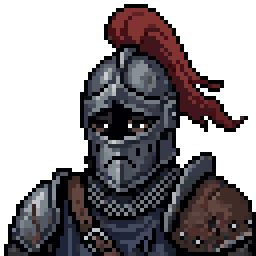
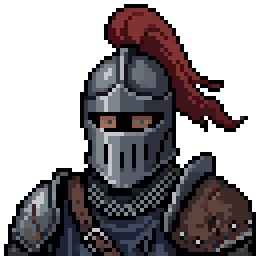
Оружие, люстра, решётка и карта картинками; портрет Найта; имя Найта в лавке
- Оружие в руках — пиксель-арт PixelLab (меч, короткий меч, двуручник; остальное — по мере генерации),
  рисуется от кисти под углом позы, хват ищется по картинке; без картинки — как раньше, кодом
- Люстра картинкой, пламя — живое на найденных фитилях; решётка и дверь камеры картинками
- Карта на пергаменте
- Портрет Найта: прямая прорезь, видны глаза, забрало не похоже на грустное лицо (замечание владельца);
  усталый — те же глаза с опущенными веками
- Лавка: реплики Найта в «Поговорить» шли под именем Лики — теперь над ними «Найт»

Claude-Session: https://claude.ai/code/session_01NZaKJV7VXAQHZfGwN3MbH5

diff --git a/src/background.js b/src/background.js
@@ -12,13 +12,13 @@ export const DOOR_W = 22, DOOR_H = 36;
 const DECOR_IMG = {
   window: [2, 'top', 22, -3], banner: [2, 'top', 10, -3], portrait: [3, 'top', 36, -2], tapestry: [1, 'top', 14, -2],
   chains: [1, 'top', 40, 0], shield: [1, 'center', 44, 0], armor: [2, 'floor'], rack: [2, 'floor'], bunk: [2, 'floor'], bookshelf: [2, 'floor'], shelf: [2, 'top', 40, 0], fireplace: [1, 'floor'],
-  pit: [1, 'hole'], rubble: [1, 'stairs'], sign: [1, 'top', 12, 0],
+  pit: [1, 'hole'], rubble: [1, 'stairs'], sign: [1, 'top', 12, 0], chandelier: [1, 'hang', 30],
 };
 // предметы на полу картинкой: тип → вариантов (вариант — по месту); сундук — закрытый / открытый
 const PROP_IMG = { barrel: 1, crate: 2, sack: 1, chest: 1, bones: 2,
   sofa: 1, table: 1, chair: 1, armchair: 1, pew: 1, bench: 1, desk: 1, stool: 1, guardtable: 1, stall: 1, rug: 1,
   bedroll: 1, pot: 1, letter: 1, candles: 1, lute: 1, logbook: 1, bouquet: 1, loot: 1 };
-export const OBJECTS = ['door_wood', 'door_iron', 'door_bars', 'door_hole', 'prop_chest_open', 'bonepile', 'stairs', 'balustrade', 'stainedglass', 'prop_altar', 'lika_sit', 'lika_sit_1', 'lika_wave', 'prop_campfire', 'prop_cup', 'slime', 'slime_squash', 'slime_stretch',
+export const OBJECTS = ['door_wood', 'door_iron', 'door_bars', 'door_hole', 'prop_chest_open', 'bonepile', 'stairs', 'balustrade', 'stainedglass', 'prop_altar', 'lika_sit', 'lika_sit_1', 'lika_wave', 'prop_campfire', 'prop_cup', 'slime', 'slime_squash', 'slime_stretch', 'decor_chandelier', 'gate_bars', 'gate_door',
   ...Object.entries(PROP_IMG).flatMap(([t, n]) => Array.from({ length: n }, (_, i) => 'prop_' + t + (i ? '_' + i : ''))),
   ...Object.entries(DECOR_IMG).flatMap(([t, [n]]) => Array.from({ length: n }, (_, i) => 'decor_' + t + (i ? '_' + i : '')))];
 const obj = {};
@@ -26,6 +26,17 @@ for (const n of OBJECTS) { if (typeof Image === 'undefined') break; const im = n
 export const objectsReady = () => OBJECTS.every(n => obj[n]?.complete);   // загрузились или не нашлись — дальше не ждать
 const objImg = n => (obj[n]?.complete && obj[n].naturalWidth ? obj[n] : null);
 if (obj.stainedglass) obj.stainedglass.onload = () => { decorImages.stainedglass = obj.stainedglass; };
+// люстра (v0.68): фитили — верхушки свечей на картинке (самые высокие столбцы); живое пламя ставится на них (decor.js)
+if (obj.decor_chandelier) obj.decor_chandelier.onload = () => {
+  const im = obj.decor_chandelier, w = im.width, h = im.height;
+  const c = document.createElement('canvas'); c.width = w; c.height = h;
+  const x = c.getContext('2d'); x.drawImage(im, 0, 0);
+  const a = x.getImageData(0, 0, w, h).data;
+  const top = Array.from({ length: w }, (_, i) => { for (let y = 0; y < h; y++) if (a[(y * w + i) * 4 + 3] > 100) return y; return h; });
+  const m = Math.min(...top), wicks = [];
+  for (let i = 0; i < w; i++) if (top[i] <= m && (i === 0 || top[i - 1] > m)) wicks.push((i - w / 2) / 2);   // мир: от центра
+  decorImages.chandelier = { wicks, h: h / 2 };
+};
 // убранство картинкой (если есть); false — рисовать кодом
 function decorImage(g, d, floorTop, room) {
   const spec = DECOR_IMG[d.type];
@@ -37,6 +48,13 @@ function decorImage(g, d, floorTop, room) {
   const im = objImg('decor_' + d.type + (i ? '_' + i : ''));
   if (!im) return false;
   const h = im.height / 2;
+  if (anchor === 'hang') {
+    // люстра: цепь от потолка кодом, верх картинки — фитили на (d.y - 7), как у прежней люстры кодом
+    const cx = Math.round(d.x), top = (d.y ?? top0) - 7;
+    for (let yy = 0; yy < top + 4; yy += 3) { rect(g, cx, yy, 1, 2, '#4a4654'); rect(g, cx, yy + 2, 1, 1, '#1a1720'); }
+    drawObj(g, im, cx, top + h);
+    return true;
+  }
   if (anchor === 'stairs') {
     // завал наверху лестницы (картинкой): закрывает её проём
     const st = objImg('stairs');
@@ -459,6 +477,12 @@ export function buildImageRoom(room, img, height, floorTop) {
 // Решётка камеры в торце: за ней темнота, прутья во всю высоту стены.
 function drawGateWall(g, x0, floorTop) {
   rect(g, x0, 0, 26, floorTop, '#0f0c18');
+  const im = objImg('gate_bars');
+  if (im) {
+    // решётка картинкой (v0.68): прутья от пола до потолка, за ними темнота коридора
+    for (let b = floorTop; b > 0; b -= im.height / 2) drawObj(g, im, x0 + 13, b);
+    return;
+  }
   rect(g, x0 + (x0 ? 0 : 23), 0, 3, floorTop, PAL.wallDark);
   for (let x = x0 + 3; x < x0 + 26; x += 4) rect(g, x, 0, 1, floorTop, '#5b6b86');
   for (const yy of [18, 60, 100]) rect(g, x0, yy, 26, 2, '#45424f');
@@ -466,6 +490,19 @@ function drawGateWall(g, x0, floorTop) {
 
 // Открытая дверь решётки — распахнута к зрителю, рисуется поверх бойцов.
 export function drawGatePanel(g, x, floorTop, H, dir) {
+  const im = objImg('gate_door');
+  if (im) {
+    // распахнутая дверь решётки картинкой: петли у стены (x), створка к зрителю
+    const k = 1.3, w = im.width / 2 * k, h = im.height / 2 * k, b = Math.min(H - 3, floorTop + 36);   // выше рыцаря
+    g.save();
+    g.imageSmoothingEnabled = false;
+    g.translate(Math.round(x), 0);
+    if (dir < 0) g.scale(-1, 1);
+    g.globalAlpha = 0.95;
+    g.drawImage(im, 0, b - h, w, h);
+    g.restore();
+    return;
+  }
   const top = floorTop + 4, bottom = H - 3;
   g.globalAlpha = 0.9;
   for (let i = 0; i < 6; i++) {

diff --git a/src/sprites.js b/src/sprites.js
@@ -98,9 +98,101 @@ function nearestPose(s, p) {
   return best;
 }
 
-// Оружие кодом (в пикселях экрана): kind — sword | rapier | axe | spear | halberd | bow | crossbow.
-// Возвращает кончик (для шлейфа удара).
+// Оружие картинкой (v0.68): assets/objects/wpn_<имя>.png лежит горизонтально, рукоять слева, острие справа.
+// Хват ищется по картинке: у клинков — чуть позади гарды (самый высокий столбец в левой части), у древкового — доля длины.
+// reach — во сколько раз вынос от кисти больше длины weaponLen (у копья наконечник дальше); flipY — лезвие вниз.
+// Короткий клинок и двуручник — свои картинки (масштаб пиксель-арта сильно не меняем).
+const WEAPON_IMG = {
+  sword: { file: 'wpn_sword' },
+  short: { file: 'wpn_short' },
+  great: { file: 'wpn_great' },
+  rapier: { file: 'wpn_rapier' },
+  ghostsword: { file: 'wpn_ghostsword' },
+  axe: { file: 'wpn_axe', grip: 0.16 },
+  spear: { file: 'wpn_spear', grip: 0.26, reach: 1.2 },
+  halberd: { file: 'wpn_halberd', grip: 0.26, reach: 1.15 },
+  crossbow: { file: 'wpn_crossbow', grip: 0.3, reach: 1.0, fixed: true },
+};
+const wpn = {};
+export function loadWeapons() {
+  for (const [kind, d] of Object.entries(WEAPON_IMG)) {
+    const img = new Image();
+    img.onload = () => {
+      const w = img.width, h = img.height;
+      const c = document.createElement('canvas');
+      c.width = w; c.height = h;
+      const x = c.getContext('2d');
+      if (d.flipY) { x.translate(0, h); x.scale(1, -1); }
+      x.drawImage(img, 0, 0);
+      const a = x.getImageData(0, 0, w, h).data;
+      const col = i => { let n = 0, lo = h, hi = -1; for (let y = 0; y < h; y++) if (a[(y * w + i) * 4 + 3] > 40) { n++; lo = Math.min(lo, y); hi = y; } return { n, lo, hi }; };
+      let gx;
+      if (d.grip != null) gx = Math.round(w * d.grip);
+      else {
+        let best = 0, bn = -1;   // гарда — самый высокий столбец в левых 45 %
+        for (let i = 0; i < w * 0.45; i++) { const n = col(i).n; if (n > bn) { bn = n; best = i; } }
+        gx = Math.max(1, best - 3);
+      }
+      const cg = col(gx), cb = col(Math.round(w * 0.75));
+      const gy = cg.n ? (cg.lo + cg.hi) / 2 : cb.n ? (cb.lo + cb.hi) / 2 : h / 2;
+      wpn[kind] = { c, gx, gy, front: w - gx, reach: d.reach ?? 1, fixed: d.fixed };
+    };
+    img.src = 'assets/objects/' + d.file + '.png';
+  }
+}
+
+// подбор картинки по виду и длине: короткий меч и двуручник — свои
+function weaponImage(kind, len) {
+  if (kind === 'sword') {
+    if (len < 28 && wpn.short) return wpn.short;
+    if (len > 50 && wpn.great) return wpn.great;
+  }
+  return wpn[kind];
+}
+
+function drawWeaponImage(g, im, wx, wy, angleDeg, facing, len) {
+  const a = angleDeg * Math.PI / 180;
+  // длина подгоняется под weaponLen, но близкие масштабы не трогаем — пиксели остаются целыми
+  let k = im.fixed ? 1 : (len * im.reach) / im.front;
+  if (Math.abs(k - 1) < 0.3) k = 1;
+  g.save();
+  g.translate(Math.round(wx), Math.round(wy));
+  g.scale(facing, 1);
+  g.rotate(a);
+  g.scale(k, k);
+  g.drawImage(im.c, -im.gx, -Math.round(im.gy));
+  g.restore();
+  const f = im.front * k;
+  return { tipX: wx + Math.cos(a) * facing * f, tipY: wy + Math.sin(a) * f };
+}
+
+// Оружие на полу (подобрать): картинка лежит, по клинку пробегает блик. false — картинки нет, рисовать кодом.
+export function drawLyingWeapon(g, kind, x, ground, t) {
+  const im = wpn[kind];
+  if (!im) return false;
+  const tr = g.getTransform(), S = tr.a;
+  g.save();
+  g.setTransform(1, 0, 0, 1, tr.e, tr.f);
+  g.imageSmoothingEnabled = false;
+  const w = im.c.width, h = im.c.height;
+  const X = Math.round(x * S - w / 2), Y = Math.round((ground - Math.max(0, Math.sin(t * 3))) * S - h / 2 - 2);
+  g.drawImage(im.c, X, Y);
+  const k = (t * 0.8) % 1;
+  if (k < 0.5) {
+    g.globalCompositeOperation = 'lighter';
+    g.fillStyle = 'rgba(255,255,255,0.7)';
+    g.fillRect(X + im.gx + Math.round(k * 2 * im.front), Y + Math.round(im.gy) - 1, 2, 2);
+  }
+  g.restore();
+  return true;
+}
+
+// Оружие (в пикселях экрана): kind — sword | rapier | ghostsword | axe | spear | halberd | bow | crossbow.
+// Есть картинка — рисуется она; нет (не загрузилась) и у лука (тетива тянется) — кодом. Возвращает кончик (для шлейфа удара).
 function drawWeapon(g, kind, wx, wy, angleDeg, facing, len, draw = 0) {
+  const im = kind !== 'bow' && weaponImage(kind, len);
+  if (im) return drawWeaponImage(g, im, wx, wy, angleDeg, facing, len);
+  if (kind === 'ghostsword') kind = 'sword';
   const a = angleDeg * Math.PI / 180;
   const dx = Math.cos(a) * facing, dy = Math.sin(a);
   const px = -dy, py = dx;

diff --git a/src/main.js b/src/main.js
@@ -15,9 +15,10 @@ import { unlockAudio, sfx, setWind, drip, crackle, ambientOn, setAmbient, update
 import { DialogueRunner } from './dialogue.js';
 import { DIALOGUES, SPEAKERS, SHOPS, ITEM_TEXTS } from './story/dialogues.js';
 import { splitDamage } from './combat.js';
-import { loadKnightSprites, knightReady, drawKnight, setNormalTarget, loadSpriteSet, spriteReady, drawSprite, ENEMY_SPRITES } from './sprites.js';
+import { loadKnightSprites, knightReady, drawKnight, setNormalTarget, loadSpriteSet, spriteReady, drawSprite, ENEMY_SPRITES, loadWeapons, drawLyingWeapon } from './sprites.js';
 import { createLighting } from './lighting.js';
 loadKnightSprites();
+loadWeapons();
 // враги в пиксель-арте (v0.64): набор по типу врага; набора нет — рисуется старая фигурка
 for (const t of ENEMY_SPRITES) loadSpriteSet(t);
 import { BESTIARY } from './story/bestiary.js';
@@ -1943,18 +1944,28 @@ function mapPress(code) {
   if (code === 'KeyA' || code === 'ArrowLeft') game.mapFloor = Math.max(1, game.mapFloor - 1);
   if (code === 'KeyD' || code === 'ArrowRight') game.mapFloor = Math.min(3, game.mapFloor + 1);
 }
+const PARCHMENT = new Image();
+PARCHMENT.src = 'assets/ui/parchment.png';
+
 function renderMap() {
-  const f = game.mapFloor, U = 6, X0 = 14, Y0 = 26;
-  // пергамент
-  rect(g, 8, 12, 304, 156, '#5a4632');
-  rect(g, 10, 14, 300, 152, '#d8c8a0');
-  rect(g, 12, 16, 296, 148, '#e0d2ac');
-  for (let i = 0; i < 40; i++) rect(g, 14 + (i * 73) % 290, 18 + (i * 37) % 140, 2, 1, '#cbb98e');  // пятна
+  const f = game.mapFloor, U = 6, X0 = 11, Y0 = 28;
+  // пергамент: картинка PixelLab (v0.68) в разрешении экрана; нет — кодом
+  if (PARCHMENT.complete && PARCHMENT.naturalWidth) {
+    g.save();
+    g.imageSmoothingEnabled = false;
+    g.drawImage(PARCHMENT, 8, 12, 304, 156);
+    g.restore();
+  } else {
+    rect(g, 8, 12, 304, 156, '#5a4632');
+    rect(g, 10, 14, 300, 152, '#d8c8a0');
+    rect(g, 12, 16, 296, 148, '#e0d2ac');
+    for (let i = 0; i < 40; i++) rect(g, 14 + (i * 73) % 290, 18 + (i * 37) % 140, 2, 1, '#cbb98e');  // пятна
+  }
   g.fillStyle = '#5a4632';
   g.font = '8px "Tiny5", monospace';
   g.textBaseline = 'top';
-  g.fillText(`Этаж ${f}${(room().floor ?? 1) === f ? ' · ' + room().name : ''}`, 18, 18);
-  g.fillText('M — закрыть · A / D — этаж', 186, 156);
+  g.fillText(`Этаж ${f}${(room().floor ?? 1) === f ? ' · ' + room().name : ''}`, 26, 21);
+  g.fillText('M — закрыть · A / D — этаж', 180, 150);
   const seen = id => game.flags['map_' + id];
   const box = id => { const [ff, x, y, w] = MAP[id]; return ff === f ? { x: X0 + x * U, y: Y0 + y * U, w: w * U } : null; };
   // переходы: края — рядом, двери — линия вверх к комнате
@@ -2332,16 +2343,17 @@ function nextShopLine() {
   const line = sh.queue.shift();
   if (!line) return;
   const text = typeof line === 'string' ? line : line.text;
-  if (line.knight) shopSay(`Найт: ${text}`, line.mood);  // Лика слушает с обычным лицом
-  else shopSay(text, line.mood);
+  shopSay(text, line.mood, !!line.knight);  // говорит Найт — Лика слушает, над репликой его имя
   renderShop();
 }
 
-// реплика продавца; mood — выражение лица на портрете (без него — обычное)
-function shopSay(text, mood = null) {
+// реплика продавца; mood — выражение лица на портрете (без него — обычное); knight — реплика Найта
+function shopSay(text, mood = null, knight = false) {
   game.shop.text = text;
   game.shop.shown = 0;
   game.shop.mood = mood;   // лицо Лики на сцене меняется в drawShopScene
+  ui.shopName.textContent = knight ? SPEAKERS.knight.name : game.shop.npc.def.name;
+  ui.shopName.classList.toggle('knight', knight);
 }
 
 function shopView(view) {
@@ -2614,7 +2626,7 @@ function render() {
     rect(g, a.x - cam - 5, gy - 2, 10, 1, '#0d0b14');
     g.globalAlpha = 1;
   }
-  for (const it of game.pickups) if ((it.room ?? 'hall') === game.room) drawPickup(g, it.x - cam, groundY(it.z), it.t);
+  for (const it of game.pickups) if ((it.room ?? 'hall') === game.room) { if (!drawLyingWeapon(g, it.kind, it.x - cam, groundY(it.z), it.t)) drawPickup(g, it.x - cam, groundY(it.z), it.t); }
   renderChokeAura(cam);
   const things = [...actors, ...(r.props ?? []).map(pr => ({ prop: pr, z: pr.z, x: pr.x }))];
   things.sort((a, b) => (a.prop?.flat ? -999 : a.z) - (b.prop?.flat ? -999 : b.z));   // ковёр (flat) — под всеми
@@ -2852,6 +2864,7 @@ function enemyWeapon(e) {
   if (e.kind === 'archer') return 'bow';
   if (d.crossbow) return 'crossbow';
   if (e.kind === 'duelist') return 'rapier';
+  if (e.kind === 'ghost' || e.kind === 'boss') return 'ghostsword';
   return d.axe ? 'axe' : d.halberd ? 'halberd' : d.spear ? 'spear' : 'sword';
 }
 

diff --git a/src/decor.js b/src/decor.js
@@ -488,7 +488,14 @@ export function drawDecorLive(g, d, sx, floorTop, time) {
     rect(g, sx - 10, floorTop - 1, 20, 1, pulse > 0.5 ? '#d9b8ff' : '#a46be0');  // щель под дверью
   } else if (d.type === 'chandelier') {
     const y = d.y ?? 30;
-    for (const dx of CANDLES) {
+    const im = decorImages.chandelier;   // люстра картинкой — пламя на её фитилях
+    if (im) for (const dx of im.wicks) {
+      const flick = Math.floor(time * 9 + dx) % 2;
+      const fx = Math.round((sx + dx) * 2) / 2;   // пиксели экрана (полпикселя мира)
+      g.fillStyle = PAL.flame1; g.fillRect(fx - 0.5, y - 9 - flick * 0.5, 1.5, 2);
+      g.fillStyle = PAL.flame0; g.fillRect(fx - 0.5, y - 8, 1, 1);
+    }
+    else for (const dx of CANDLES) {
       const flick = Math.floor(time * 9 + dx) % 2;
       rect(g, sx + dx, y - 7 - flick, 2, 2, PAL.flame1);
       rect(g, sx + dx, y - 7, 1, 1, PAL.flame0);

diff --git a/style.css b/style.css
@@ -199,6 +199,7 @@ kbd {
 .shop-portrait[hidden] { display: none; }
 img.shop-portrait { image-rendering: auto; object-fit: contain; background: none; border: none; width: 17cqw; height: 17cqw; }
 .shop-name { font-family: var(--pixel); font-size: 2.4cqw; color: var(--gold); }
+.shop-name.knight { color: #c9d2de; }
 .shop-coins { font-family: var(--pixel); font-size: 1.8cqw; color: var(--muted); }
 .shop-text { margin: 0; font-size: 2.4cqw; line-height: 1.5; color: var(--fg); }
 .shop-menu { display: grid; gap: 0.7cqw; align-content: start; }

diff --git a/tools/pixellab_knight_face.py b/tools/pixellab_knight_face.py
@@ -1,0 +1,45 @@
+# Портрет Найта (v0.68, замечание владельца): глаза видны в прорези забрала, забрало не похоже на грустное лицо.
+# Правка готового портрета (64×64, на экране ×4), а не новая картинка — стиль и шлем остаются.
+#   python3 tools/pixellab_knight_face.py edit      → варианты .pixellab_work/kface/edit_NN.png (по 4 на описание)
+#   python3 tools/pixellab_knight_face.py pick N     → assets/portraits/knight.png (×4)
+#   python3 tools/pixellab_knight_face.py tired      → из выбранного: прищур (knight-tired.png)
+import sys, os
+sys.path.insert(0, os.path.dirname(os.path.abspath(__file__)))
+from pixellab import *
+from concurrent.futures import ThreadPoolExecutor
+
+ROOT = os.path.dirname(os.path.dirname(os.path.abspath(__file__)))
+WORK = os.path.join(ROOT, '.pixellab_work', 'kface'); os.makedirs(WORK, exist_ok=True)
+POR = os.path.join(ROOT, 'assets', 'portraits')
+SMALL = os.path.join(WORK, 'base64.png')
+FACE = ('a knight in a closed steel great helm with a red plume; the visor has one wide straight horizontal eye slit, '
+        'and through the dark slit the knight\'s two human eyes are clearly visible, light grey-green eyes with a calm steady look; '
+        'the lower part of the visor below the slit is smooth plain metal with a vertical ridge in the middle, no breathing holes, no mouth shape, no face drawn on the metal')
+
+def small(src, out):
+    Image.open(src).convert('RGBA').resize((64, 64), Image.NEAREST).save(out)
+
+cmd = sys.argv[1]
+if cmd == 'edit':
+    small(os.path.join(POR, 'knight.png'), SMALL)
+    img, sz = b64img(SMALL)
+    def job(i):
+        return run('/edit-image-pixen', {'image': img, 'description': 'keep the same knight, same helmet, armor, plume, colors and style; only change the visor: ' + FACE,
+                                         'width': 64, 'height': 64, 'no_background': True}, os.path.join(WORK, f'edit{i}'))
+    with ThreadPoolExecutor(4) as ex: paths = [p for ps in ex.map(job, range(4)) for p in ps]
+    sheet(paths, os.path.join(WORK, 'edit_sheet.png'), scale=4, cols=4)
+    print(paths)
+elif cmd == 'pick':
+    src = sys.argv[2]
+    Image.open(src).convert('RGBA').resize((256, 256), Image.NEAREST).save(os.path.join(POR, 'knight.png'))
+    print('ok')
+elif cmd == 'tired':
+    small(os.path.join(POR, 'knight.png'), SMALL)
+    img, sz = b64img(SMALL)
+    def job(i):
+        return run('/edit-image-pixen', {'image': img, 'description': 'the same knight, only the eyes in the visor slit change: tired, half closed squinting eyes, heavy eyelids; the visor metal stays exactly the same',
+                                         'width': 64, 'height': 64, 'no_background': True}, os.path.join(WORK, f'tired{i}'))
+    with ThreadPoolExecutor(3) as ex: paths = [p for ps in ex.map(job, range(3)) for p in ps]
+    sheet(paths, os.path.join(WORK, 'tired_sheet.png'), scale=4, cols=4)
+    print(paths)
+print(req('GET', '/balance')['subscription']['generations'])
